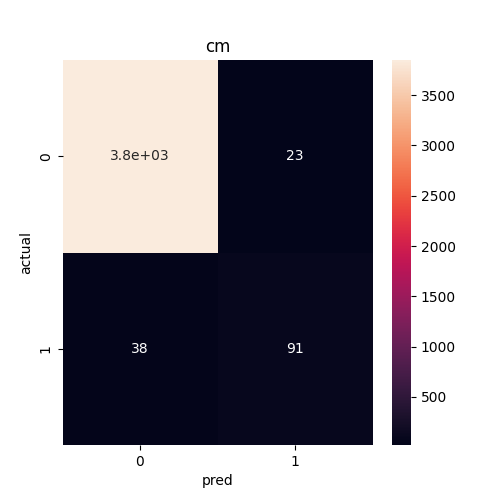
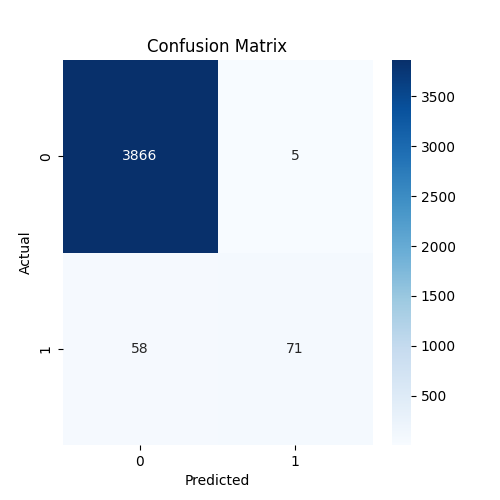
succ done hyper

diff --git a/src/hyperpara.py b/src/hyperpara.py
@@ -9,13 +9,16 @@ import mlflow
 import matplotlib.pyplot as plt
 import seaborn as sns
 import json
+import dagshub
+
+dagshub.init(repo_owner='roshansalunke91', repo_name='predictive_maintenance-', mlflow=True)
 
 # Set up MLflow
 mlflow.set_experiment('hyper_para')
-mlflow.set_tracking_uri('https://127.0.0.1:5000')
+mlflow.set_tracking_uri('https://dagshub.com/roshansalunke91/predictive_maintenance-.mlflow')
 
 try:
-    with mlflow.start_run():
+    
     # Load datasets
         train = pd.read_csv('./data/processed/train_processed.csv')
         test = pd.read_csv('./data/processed/test_processed.csv')
@@ -34,56 +37,60 @@ try:
     # Perform Randomized Search
         random_search = RandomizedSearchCV(estimator=rf, param_distributions=param_dict, cv=5, n_jobs=-1, verbose=2)
 
-    
-        random_search.fit(x_train, y_train)
+        with mlflow.start_run(run_name='random forest') as parent_run:
+            random_search.fit(x_train, y_train)
 
+            for i in range(len(random_search.cv_results_['params'])):
+                with mlflow.start_run(run_name=f'combination of {i+1}',nested=True) as child_run:
+                    mlflow.log_params(random_search.cv_results_['params'][i])
+                    mlflow.log_metric('mean_test_score', random_search.cv_results_['mean_test_score'][i])
         # Log best parameters
-        best_params = random_search.best_params_
-        mlflow.log_params(best_params)
+            best_params = random_search.best_params_
+            mlflow.log_params(best_params)
 
         # Save the best model
-        mlflow.sklearn.log_model(random_search.best_estimator_, 'model')
+            mlflow.sklearn.log_model(random_search.best_estimator_, 'model')
 
         # Load test data
-        x_test = test.drop('Machine failure', axis=1)
-        y_test = test['Machine failure']
+            x_test = test.drop('Machine failure', axis=1)
+            y_test = test['Machine failure']
 
         # Predict and evaluate
-        pred = random_search.predict(x_test)
-        acc = accuracy_score(y_test, pred)
-        f1_scor = f1_score(y_test, pred)
-        precision_scor = precision_score(y_test, pred)
-        recall_scor = recall_score(y_test, pred)
+            pred = random_search.predict(x_test)
+            acc = accuracy_score(y_test, pred)
+            f1_scor = f1_score(y_test, pred)
+            precision_scor = precision_score(y_test, pred)
+            recall_scor = recall_score(y_test, pred)
 
         # Log metrics
-        mlflow.log_metric('accuracy', acc)
-        mlflow.log_metric('f1_score', f1_scor)
-        mlflow.log_metric('precision', precision_scor)
-        mlflow.log_metric('recall', recall_scor)
+            mlflow.log_metric('accuracy', acc)
+            mlflow.log_metric('f1_score', f1_scor)
+            mlflow.log_metric('precision', precision_scor)
+            mlflow.log_metric('recall', recall_scor)
 
         # Log confusion matrix
-        cm = confusion_matrix(y_test, pred)
-        plt.figure(figsize=(5, 5))
-        sns.heatmap(cm, annot=True, fmt='d', cmap='Blues')
-        plt.xlabel('Predicted')
-        plt.ylabel('Actual')
-        plt.title('Confusion Matrix')
-        plt.savefig('con_met.png')
-        mlflow.log_artifact('con_met.png')
+            cm = confusion_matrix(y_test, pred)
+            plt.figure(figsize=(5, 5))
+            sns.heatmap(cm, annot=True, fmt='d', cmap='Blues')
+            plt.xlabel('Predicted')
+            plt.ylabel('Actual')
+            plt.title('Confusion Matrix')
+            plt.savefig('con_met.png')
+            mlflow.log_artifact('con_met.png')
 
         # Log input datasets
-        mlflow.log_artifact('./data/processed/train_processed.csv', artifact_path='train_data')
-        mlflow.log_artifact('./data/processed/test_processed.csv', artifact_path='test_data')
+            mlflow.log_artifact('./data/processed/train_processed.csv', artifact_path='train_data')
+            mlflow.log_artifact('./data/processed/test_processed.csv', artifact_path='test_data')
 
         # Save metrics to a JSON file
-        metrics_dict = {
+            metrics_dict = {
             'accuracy': acc,
             'f1_score': f1_scor,
             'precision': precision_scor,
             'recall': recall_scor
         }
-        with open('metrics.json', 'w') as file:
-            json.dump(metrics_dict, file, indent=4)
+            with open('metrics.json', 'w') as file:
+                json.dump(metrics_dict, file, indent=4)
 
 except Exception as e:
     print(f"An error occurred: {e}")
